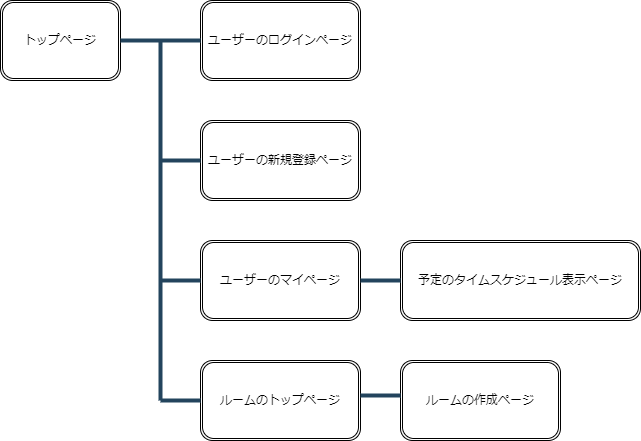
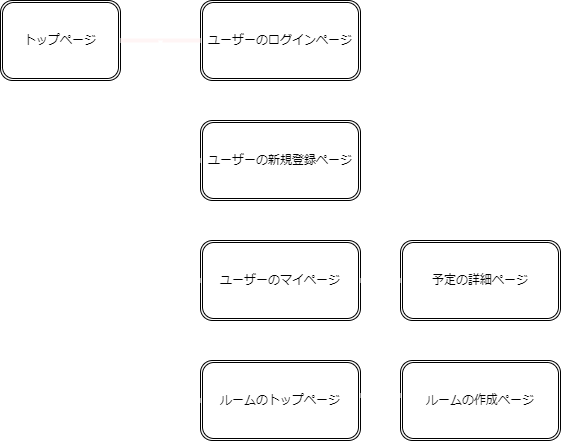
READMEの完成

Changed region(s): [[0.1515, 0.0, 1.0, 1.0], [0.0, 0.0, 0.1515, 0.1769]]

diff --git a/README.md b/README.md
@@ -32,7 +32,7 @@ https://schedule-share.onrender.com
 
 
 # アプリケーションを作成した背景
-家族や友人と旅行の計画を立てたり飲みにいったりする際に、複数人の場合予定を合わせるのが難しく、会いたいと感じても実現できず疎遠になりやすいと感じていた。そこで、予定をお互いにシェアし合うことで、問題の解決の助けになるのではと思い、予定をシェアするアプリを開発しようと考えました。
+家族や友人と旅行の計画を立てたり飲みにいったりする際に、複数人の場合予定を合わせるのが難しく、会いたいと感じても実現できず疎遠になりやすいと感じていました。そこで、予定をお互いにシェアし合うことで、問題の解決の助けになるのではと思い、予定をシェアするアプリを開発しようと考えました。
 
 
 # 洗い出した要件
@@ -129,10 +129,10 @@ https://schedule-share.onrender.com
 
 
 # 開発環境
-
-
-# ローカルでの動作確認方法
+- フロントエンド：HTML,CSS,JavaScript
+- バックエンド：Ruby on Rails 7
+- テキストエディタ:VSCode
 
 
 # 工夫したポイント
-
+工夫したポイントはカレンダーをJavaScriptを使って表示させる部分です。カレンダーの表示だけならAIやChatGPT等を使って簡単に作れたのですが、そこから使いやすくするために土日に色を塗ったり、予定のタイトルを日付と対応付けて表示させ、さらにそのタイトルから予定の詳細ページに飛べるようにしたりなど機能を追加するために、最初のカレンダーを表示するコードの意味を一文ずつ調べることから始めました。そこから、どこに変更を加えたらよいかを知り、使いやすくなるように追加する機能を考えました。
